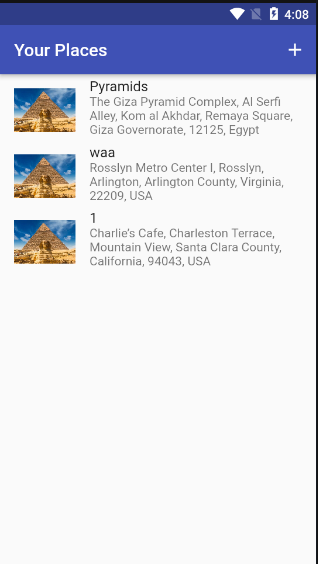
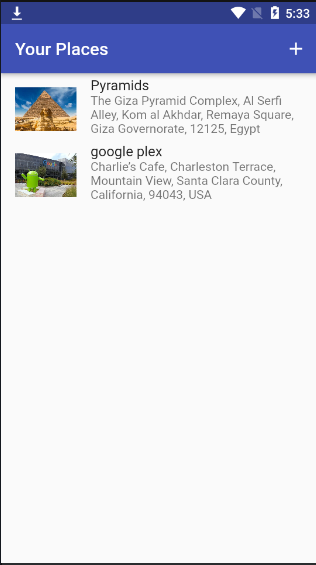
add delete place in places_provider.dart db_helper.dart add dismissible in places_list_screen.dart

Changed region(s): [[0.0, 0.0, 1.0, 1.0]]

diff --git a/lib/screens/places_list_screen.dart b/lib/screens/places_list_screen.dart
@@ -33,18 +33,59 @@ class PlacesListScreen extends StatelessWidget {
                       : ListView.builder(
                           itemCount: data.items.length,
                           itemBuilder: (ctx, i) {
-                            return ListTile(
-                              leading: Container(
-                                width: 70,
-                                height: 50,
-                                child: Image.file(data.items[i].image,fit: BoxFit.cover,),
-                              ),
-                              title: Text(data.items[i].title),
-                              subtitle: Text(data.items[i].location.address),
-                              onTap: () {
-                                //go to place details page
-                                Navigator.of(context).pushNamed(PlaceDetailsScreen.routeName,arguments: data.items[i].id);
+                            return Dismissible(
+                              direction: DismissDirection.endToStart,
+                              key: ValueKey(data.items[i].id),
+                              confirmDismiss: (direction) {
+                                return showDialog(
+                                    context: context,
+                                    builder: (ctx) {
+                                      return AlertDialog(
+                                        title: Text('Are you sure?'),
+                                        content: Text('Do you want to delete ${data.items[i].title}?'),
+                                        actions: [
+                                          FlatButton(
+                                            onPressed: () {
+                                              Navigator.of(ctx).pop(true);
+                                            },
+                                            child: Text('Yes'),
+                                            textColor: Theme.of(context).errorColor,
+                                          ),
+                                          FlatButton(
+                                              onPressed: () {
+                                                Navigator.of(ctx).pop(false);
+                                              },
+                                              child: Text('No')),
+                                        ],
+                                      );
+                                    });
                               },
+                              onDismissed: (direction) =>
+                                  Provider.of<PlacesProvider>(context, listen: false).deletePlace(data.items[i].id),
+                              background: Container(
+                                color: Theme.of(context).errorColor,
+                                margin: EdgeInsets.all(7),
+                                padding: EdgeInsets.symmetric(vertical: 4, horizontal: 10),
+                                alignment: Alignment.centerRight,
+                                child: Icon(
+                                  Icons.delete,
+                                  color: Colors.white,
+                                  size: 40,
+                                ),
+                              ),
+                              child: ListTile(
+                                leading: Container(
+                                  width: 70,
+                                  height: 50,
+                                  child: Image.file(data.items[i].image,fit: BoxFit.cover,),
+                                ),
+                                title: Text(data.items[i].title),
+                                subtitle: Text(data.items[i].location.address),
+                                onTap: () {
+                                  //go to place details page
+                                  Navigator.of(context).pushNamed(PlaceDetailsScreen.routeName,arguments: data.items[i].id);
+                                },
+                              ),
                             );
                           },
                         );

diff --git a/lib/providers/places_provider.dart b/lib/providers/places_provider.dart
@@ -54,7 +54,13 @@ class PlacesProvider with ChangeNotifier {
     notifyListeners();
   }
 
-  PlaceModel findById(String id){
+  PlaceModel findById(String id) {
     return _items.firstWhere((element) => element.id == id);
-}
+  }
+
+  void deletePlace(String id){
+    _items.removeWhere((element) => element.id == id);
+    notifyListeners();
+    DBHelper.deletePlace(id);
+  }
 }

diff --git a/lib/helpers/db_helper.dart b/lib/helpers/db_helper.dart
@@ -27,4 +27,10 @@ class DBHelper {
     final db = await DBHelper.database();
     return db.query(table);
   }
+
+  ///delete a place using its id
+  static Future<void> deletePlace(String id) async{
+    final db = await DBHelper.database();
+    await db.delete('places',where: 'id = \"$id\"');
+  }
 }
